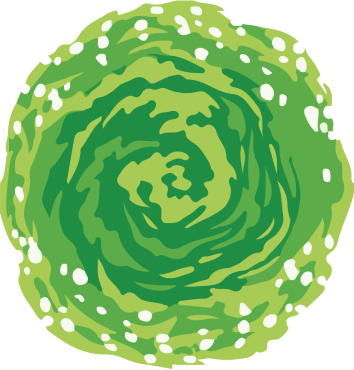
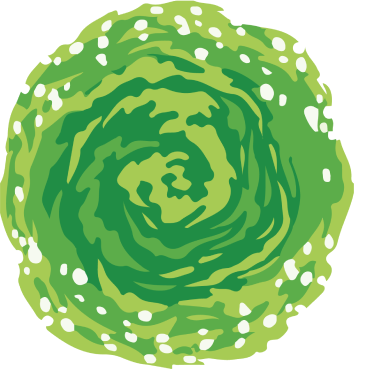
add image ui in person info page

diff --git a/lib/feature/presentation/widgets/person_info_page_body.dart b/lib/feature/presentation/widgets/person_info_page_body.dart
@@ -26,12 +26,26 @@ class PersonInfoPlateImage extends StatelessWidget {
 
   @override
   Widget build(BuildContext context) {
-    return const Stack(children: [
-      Image(
-        image: AssetImage(
-          'assets/pictures/portal.png',
+    return Container(
+      decoration: const BoxDecoration(
+        image: DecorationImage(
+          image: AssetImage('assets/pictures/portal.png'),
         ),
       ),
-    ]);
+      child: Padding(
+        padding: const EdgeInsets.all(
+          65,
+        ),
+        child: Center(
+          child: ClipOval(
+            child: CachedNetworkImage(
+              imageUrl: person.image,
+              height: 180,
+              width: 180,
+            ),
+          ),
+        ),
+      ),
+    );
   }
 }

diff --git a/lib/feature/presentation/pages/person_info_page.dart b/lib/feature/presentation/pages/person_info_page.dart
@@ -28,8 +28,11 @@ class PersonInfoPage extends StatelessWidget {
           ),
         ),
         backgroundColor: Colors.transparent,
-        body: PersonInfoPageBody(
-          person: person,
+        body: SingleChildScrollView(
+          physics: const BouncingScrollPhysics(),
+          child: PersonInfoPageBody(
+            person: person,
+          ),
         ),
       ),
     );
